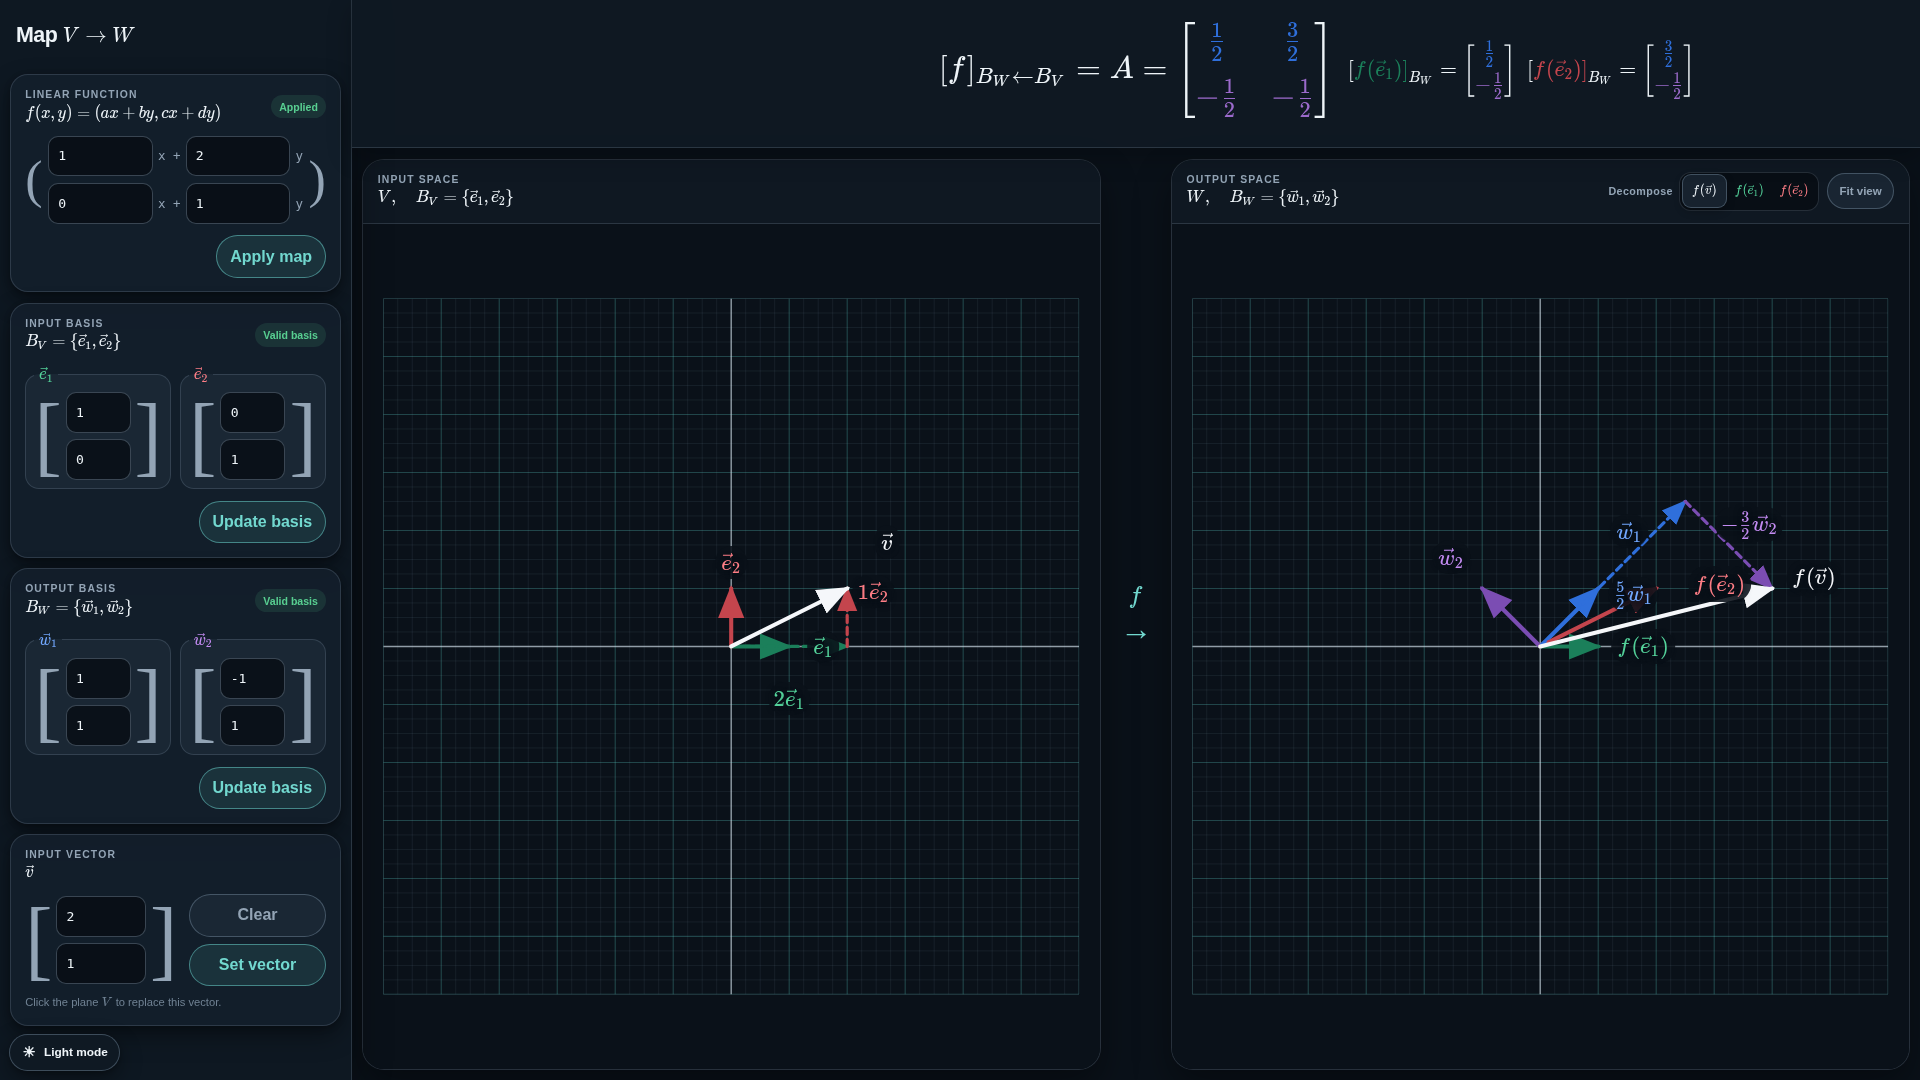
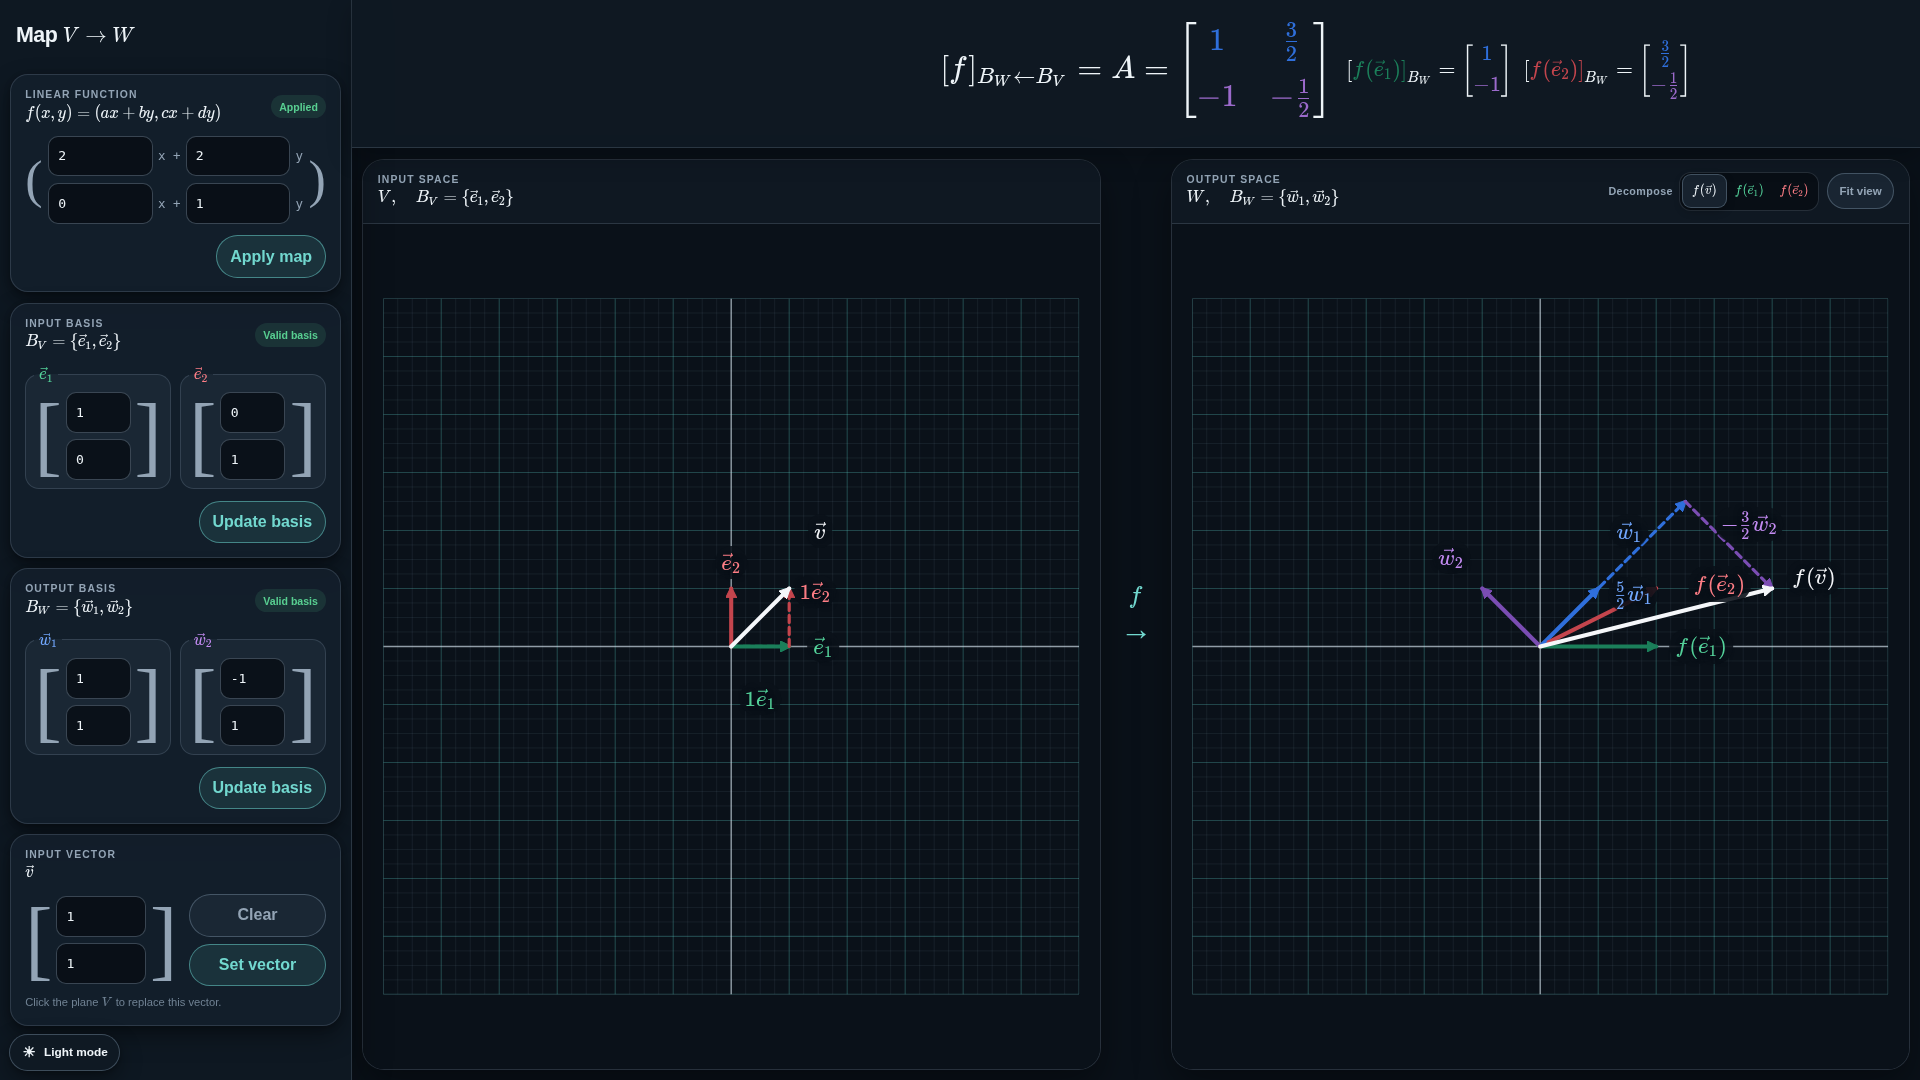
Adjust arrow size

diff --git a/src/test/math-state.controller.test.ts b/src/test/math-state.controller.test.ts
@@ -15,7 +15,7 @@ import {
 const r = rational;
 
 describe("AppController", () => {
-  it("starts with the default shear map, vector, and fixed shared bounds", () => {
+  it("starts with the default map, vector, and fixed shared bounds", () => {
     const controller = new AppController();
     const view = controller.getViewModel();
 
@@ -25,14 +25,17 @@ describe("AppController", () => {
       first: integerVector2(1n, 0n),
       second: integerVector2(0n, 1n),
     });
-    expect(view.state.selectedVector).toEqual(integerVector2(2n, 1n));
+    expect(view.state.selectedVector).toEqual(integerVector2(1n, 1n));
     expect(view.state.map).toEqual(
-      matrix2([r(1n), r(2n)], [r(0n), r(1n)]),
+      matrix2([r(2n), r(2n)], [r(0n), r(1n)]),
     );
-    expect(view.vector?.sourceCoordinates).toEqual(integerVector2(2n, 1n));
+    expect(view.vector?.sourceCoordinates).toEqual(integerVector2(1n, 1n));
     expect(view.vector?.image).toEqual(integerVector2(4n, 1n));
+    expect(view.vector?.imageCoordinates).toEqual(
+      vector2(r(5n, 2n), r(-3n, 2n)),
+    );
     expect(view.analysis.representation).toEqual(
-      matrix2([r(1n, 2n), r(3n, 2n)], [r(-1n, 2n), r(-1n, 2n)]),
+      matrix2([r(1n), r(3n, 2n)], [r(-1n), r(-1n, 2n)]),
     );
     expect(view.state.bounds).toEqual({
       xMin: -6,
@@ -114,11 +117,9 @@ describe("AppController", () => {
     expect(after.state.map).toEqual(before.state.map);
     expect(after.vector?.source).toEqual(before.vector?.source);
     expect(after.vector?.image).toEqual(before.vector?.image);
-    expect(after.analysis.imageE1).toEqual(integerVector2(3n, 1n));
-    expect(after.analysis.imageE2).toEqual(integerVector2(3n, 2n));
-    expect(after.vector?.sourceCoordinates).toEqual(
-      vector2(r(5n, 3n), r(-1n, 3n)),
-    );
+    expect(after.analysis.imageE1).toEqual(integerVector2(4n, 1n));
+    expect(after.analysis.imageE2).toEqual(integerVector2(2n, 2n));
+    expect(after.vector?.sourceCoordinates).toEqual(integerVector2(1n, 0n));
     expect(after.analysis.representation).not.toEqual(
       before.analysis.representation,
     );
@@ -163,12 +164,12 @@ describe("AppController", () => {
 
     expect(singular.analysis.inverseSourceBasis).toBeNull();
     expect(singular.analysis.representation).toBeNull();
-    expect(singular.vector?.source).toEqual(integerVector2(2n, 1n));
+    expect(singular.vector?.source).toEqual(integerVector2(1n, 1n));
     expect(singular.vector?.sourceCoordinates).toBeNull();
     expect(singular.vector?.image).toEqual(integerVector2(4n, 1n));
     expect(singular.vector?.imageCoordinates).not.toBeNull();
-    expect(singular.analysis.imageE1).toEqual(integerVector2(5n, 2n));
-    expect(singular.analysis.imageE2).toEqual(integerVector2(10n, 4n));
+    expect(singular.analysis.imageE1).toEqual(integerVector2(6n, 2n));
+    expect(singular.analysis.imageE2).toEqual(integerVector2(12n, 4n));
     expect(singular.notices[0]?.text).toContain("Not a basis in V");
 
     // Output decomposition focus depends only on B_W and remains usable.

diff --git a/src/plot/svg-plane.ts b/src/plot/svg-plane.ts
@@ -19,6 +19,8 @@ import {
 } from "./label-layout";
 
 const SVG_NAMESPACE = "http://www.w3.org/2000/svg";
+/** The SVG viewBox follows its CSS size, so user units keep this near 11 CSS px. */
+const ARROW_MARKER_SIZE = 11;
 
 export type PlotColorRole =
   | "green"
@@ -189,16 +191,18 @@ export abstract class RetainedSvgPlane {
     for (const role of Object.keys(ROLE_COLOR) as PlotColorRole[]) {
       const marker = svgElement("marker");
       marker.id = this.markerId(role);
-      marker.setAttribute("viewBox", "0 0 10 8");
-      marker.setAttribute("refX", "9");
-      marker.setAttribute("refY", "4");
-      marker.setAttribute("markerWidth", "8");
-      marker.setAttribute("markerHeight", "7");
+      marker.setAttribute("viewBox", "0 0 10 10");
+      marker.setAttribute("refX", "8.4");
+      marker.setAttribute("refY", "5");
+      marker.setAttribute("markerWidth", String(ARROW_MARKER_SIZE));
+      marker.setAttribute("markerHeight", String(ARROW_MARKER_SIZE));
       marker.setAttribute("orient", "auto-start-reverse");
-      marker.setAttribute("markerUnits", "strokeWidth");
+      marker.setAttribute("markerUnits", "userSpaceOnUse");
       const arrowHead = svgElement("path");
-      arrowHead.setAttribute("d", "M 0 0 L 10 4 L 0 8 z");
+      arrowHead.setAttribute("d", "M 0 0 L 10 5 L 0 10 z");
       arrowHead.setAttribute("fill", ROLE_COLOR[role]);
+      arrowHead.setAttribute("stroke", ROLE_COLOR[role]);
+      arrowHead.setAttribute("stroke-linejoin", "round");
       marker.append(arrowHead);
       definitions.append(marker);
     }

diff --git a/index.html b/index.html
@@ -34,7 +34,7 @@
               <div class="formula-row">
                 <label class="coefficient-field">
                   <span class="sr-only">Coefficient a</span>
-                  <input id="map-11" type="text" value="1" inputmode="decimal" maxlength="32" autocomplete="off" aria-describedby="map-11-error" />
+                  <input id="map-11" type="text" value="2" inputmode="decimal" maxlength="32" autocomplete="off" aria-describedby="map-11-error" />
                   <span id="map-11-error" class="field-error"></span>
                 </label>
                 <span>x +</span>
@@ -191,7 +191,7 @@
               <div class="column-vector-fields">
                 <label class="field">
                   <span class="sr-only">First coordinate of v</span>
-                  <input id="vector-x" type="text" value="2" inputmode="decimal" maxlength="32" autocomplete="off" aria-label="First coordinate of v" aria-describedby="vector-x-error" />
+                  <input id="vector-x" type="text" value="1" inputmode="decimal" maxlength="32" autocomplete="off" aria-label="First coordinate of v" aria-describedby="vector-x-error" />
                   <span id="vector-x-error" class="field-error"></span>
                 </label>
                 <label class="field">

diff --git a/src/ui/controller.ts b/src/ui/controller.ts
@@ -59,7 +59,7 @@ export interface VectorFields {
 export type AppControllerListener = (viewModel: ViewModel) => void;
 
 export const DEFAULT_MAP: LinearMap2D = matrix2(
-  [rational(1n), rational(2n)],
+  [rational(2n), rational(2n)],
   [rational(0n), rational(1n)],
 );
 
@@ -70,7 +70,7 @@ export const DEFAULT_BASIS_W: BasisW = Object.freeze({
   second: integerVector2(-1n, 1n),
 });
 
-export const DEFAULT_SELECTED_VECTOR: Vector2<Rational> = integerVector2(2n, 1n);
+export const DEFAULT_SELECTED_VECTOR: Vector2<Rational> = integerVector2(1n, 1n);
 
 function freezeState(state: AppState): AppState {
   return Object.freeze({